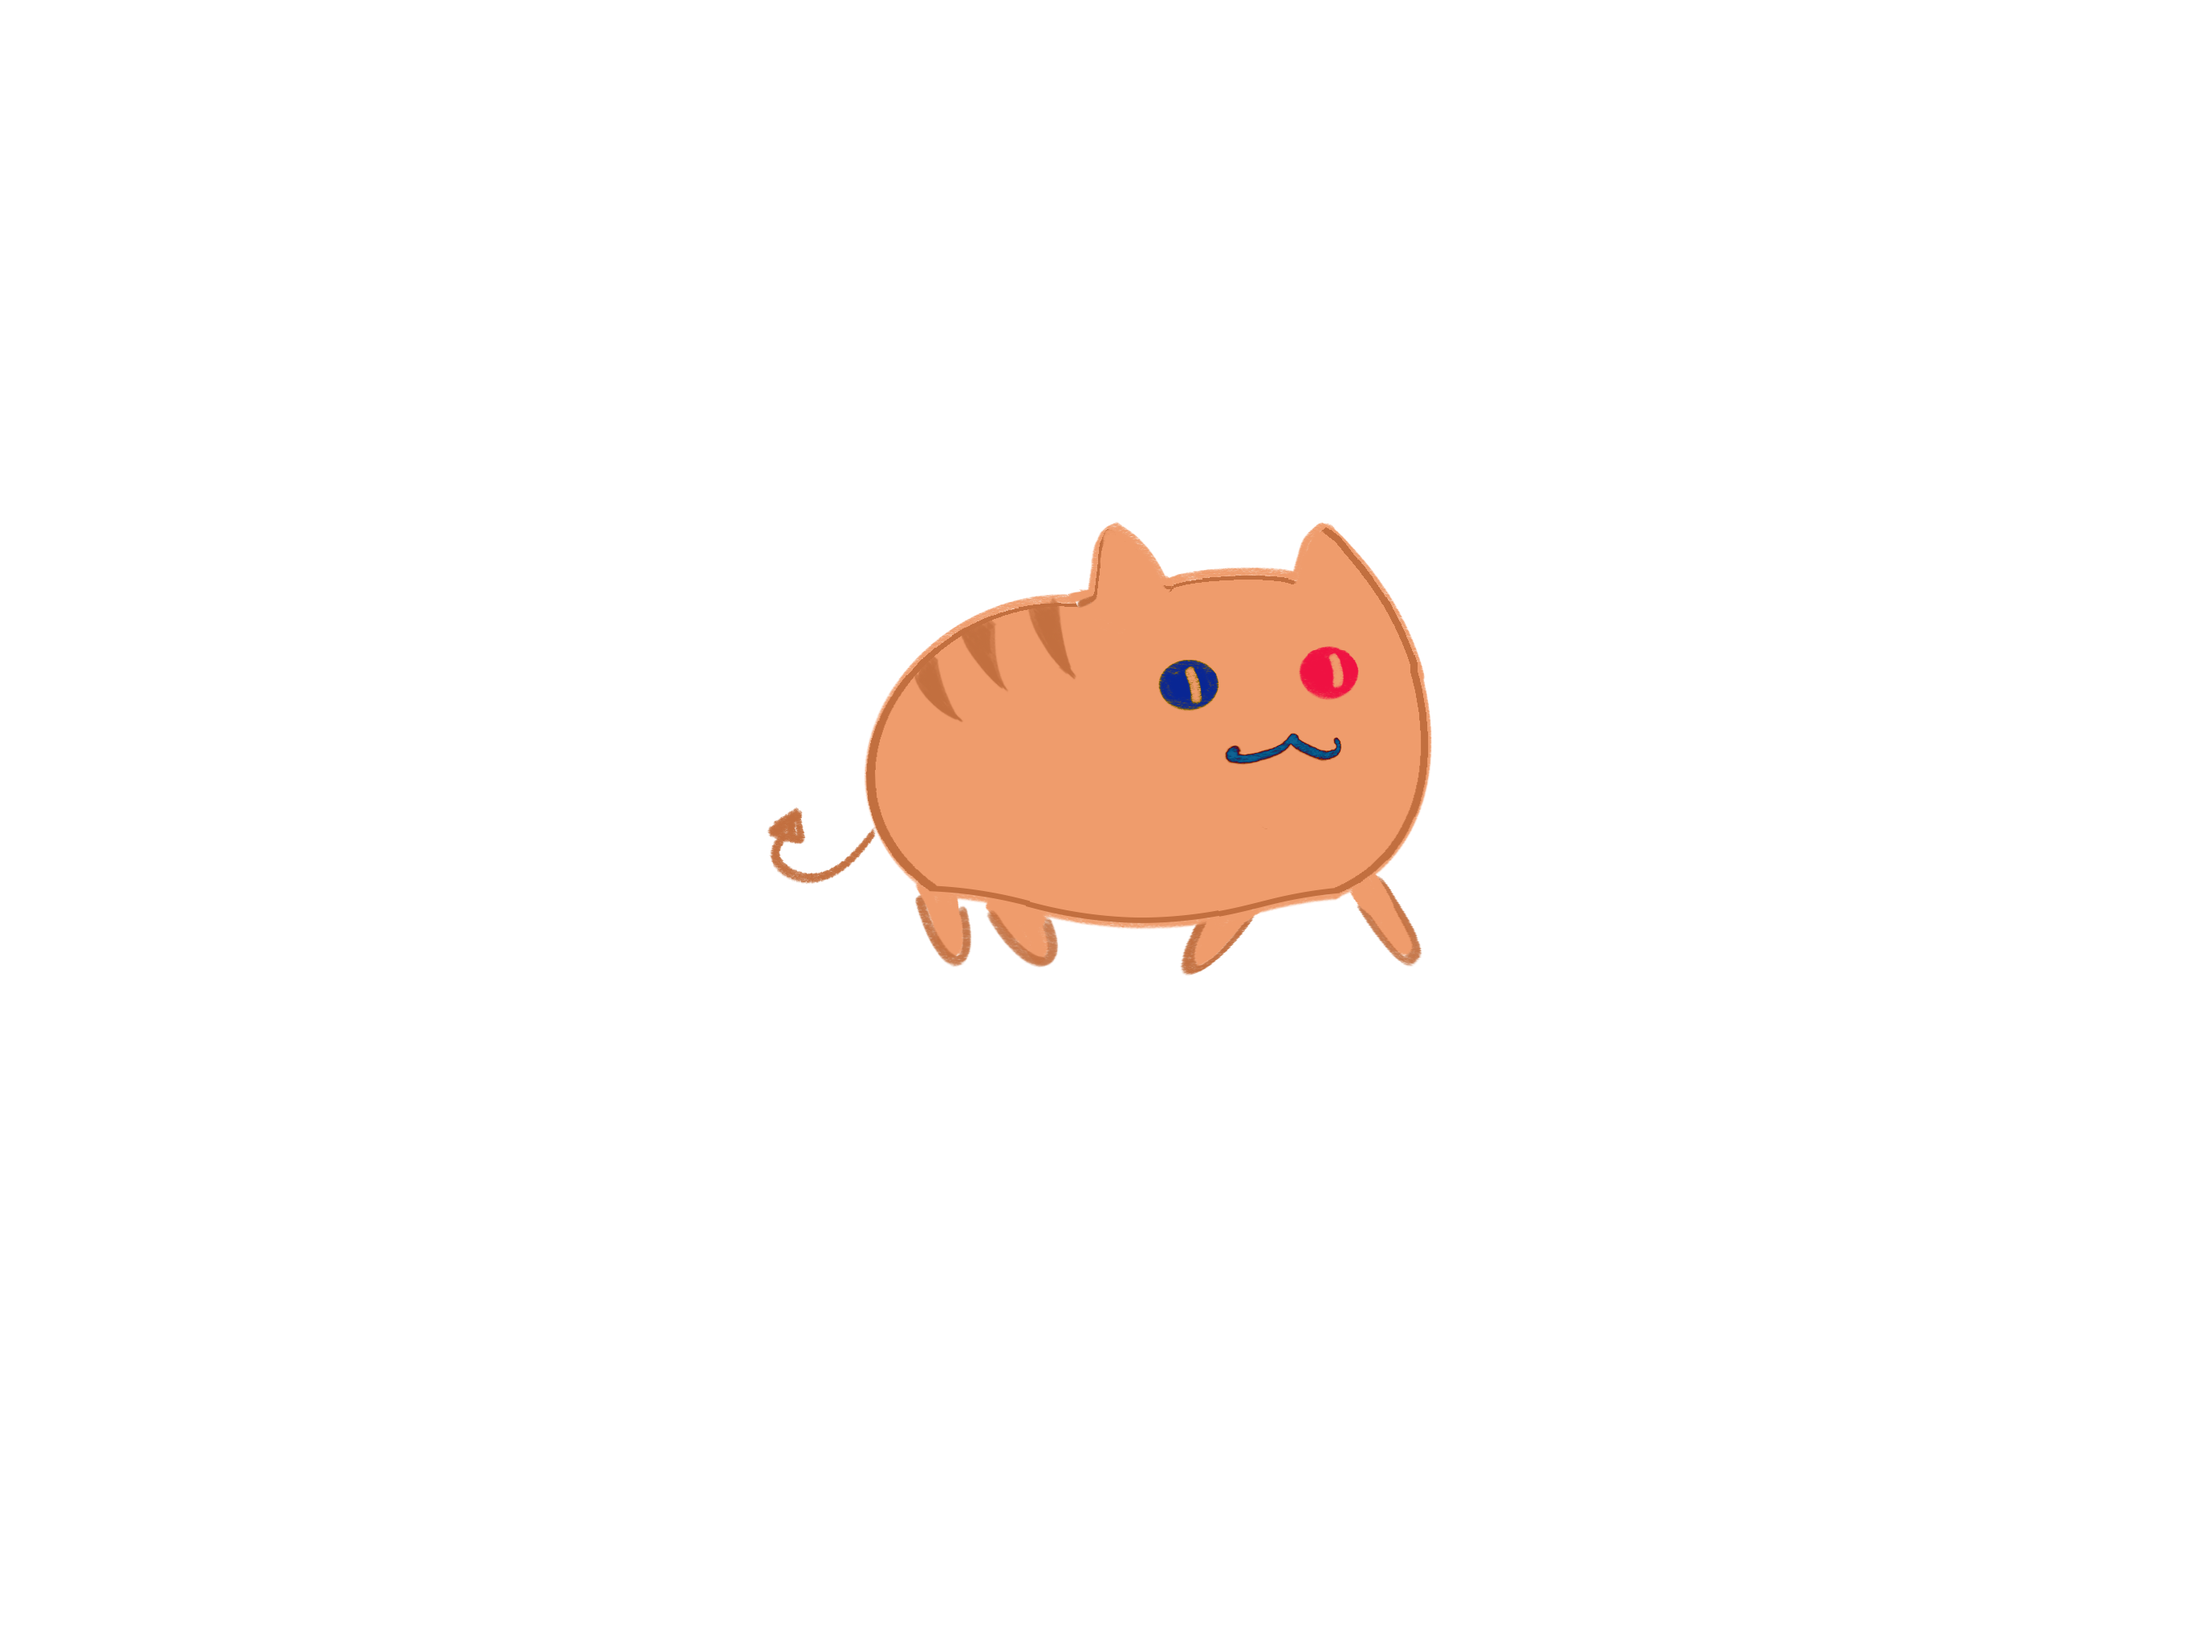
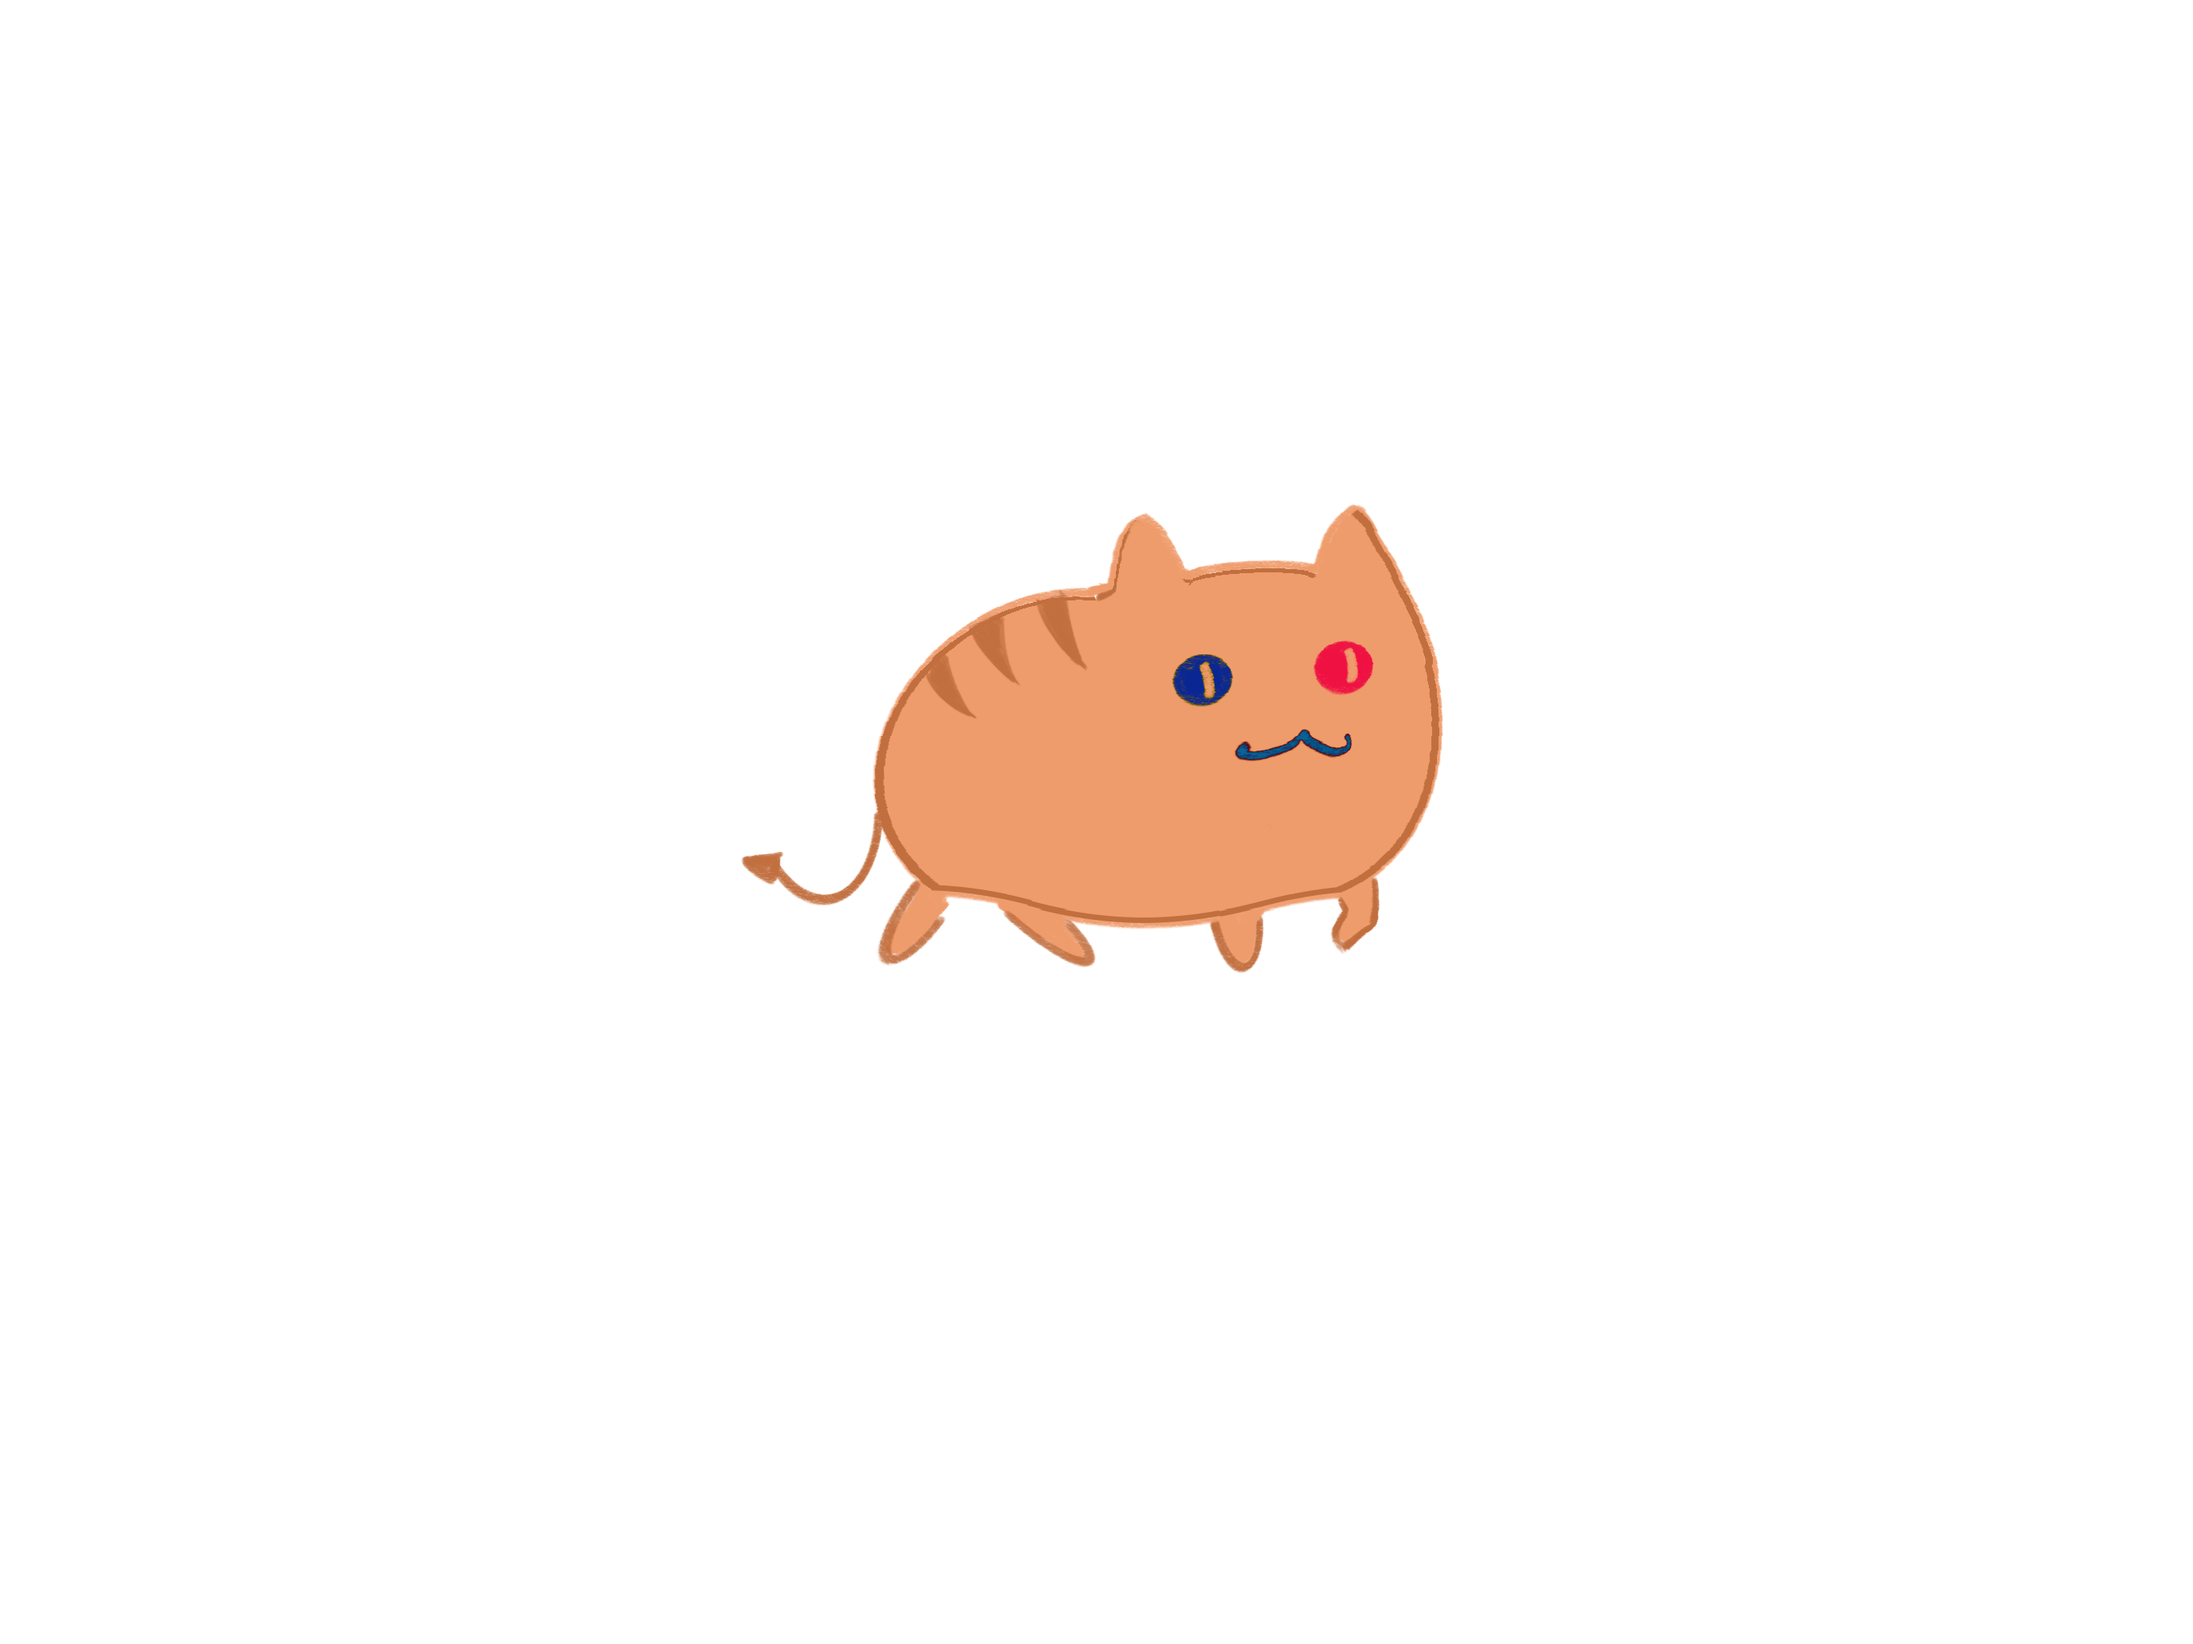
added idle animation for cat 2

Changed region(s): [[0.5289, 0.3125, 0.6845, 0.5938], [0.4045, 0.3125, 0.5911, 0.4375], [0.3422, 0.4375, 0.4978, 0.5938]]

diff --git a/CatcatcatAdvanced/js/script.js b/CatcatcatAdvanced/js/script.js
@@ -17,6 +17,7 @@
 
 //Our cat variables, for animations
 let catFrames = [];
+let gingerFrames = [];
 let frameIndex = 0;
 
 let faceEmoji = "🥺"; // default normal mode for emoji
@@ -82,6 +83,11 @@ function preload() {
         console.log("cat frame was added")
     }// all the frames of the cat
 
+    for (let i = 0; i < 4; i++) {
+        gingerFrames[i] = loadImage(`assets/images/ginger${i}.png`);
+        console.log("cat2 frame was added")
+    }// all the frames of the cat2
+
     meowSound = loadSound("assets/sounds/Meow1.mp3");
     gameMusic = loadSound("assets/music/game.mp3");
     restart = loadImage("assets/images/restartButton.png");
@@ -90,6 +96,12 @@ function preload() {
 function drawCat(x, y, w, h) {
     imageMode(CENTER); // draw from the center instead of top-left
     image(catFrames[frameIndex], x, y, w, h);
+    // console.log("there is an image",Image);
+}
+
+function drawCat2(x, y, w, h) {
+    imageMode(CENTER); // draw from the center instead of top-left
+    image(gingerFrames[frameIndex], x, y, w, h);
     // console.log("there is an image",Image);
 }
 
@@ -267,8 +279,15 @@ function gameOverUI() {
     pop();
 }
 
-function level2UI(){
-    
+function newCat2() {
+    push();
+    background("#b1a6ebff");
+    drawCat2(320, 240, 400, 400);
+    catWalk();// cat idel animation
+    pop();
+}
+function level2UI() {
+
 }
 
 //switching the scenes
@@ -279,7 +298,9 @@ function draw() {
         gameState();
     } else if (gameUI === "Over") {
         gameOverUI();
-    } else if (gameUI === "level2"){
+    } else if (gameUI === "cat2") {
+        newCat2();
+    } else if (gameUI === "level2") {
         level2UI();
     }
 }
@@ -444,16 +465,17 @@ function checkTongueFlyOverlap() {
 function mousePressed() {
     if (mouseX > 20 && mouseX < 70 && mouseY > 20 && mouseY < 70 && gameUI === "Over") {
         gameUI = "game";   // restart the game
-        resetFly();        // optional: reset cat position
+        resetFly();        //reset cat position
         frog.data.catch = 0;
         frog.data.tries = 0;
         frog.data.miss = 0;
         frog.data.mood = "normal";
 
         return; // need to do this so when I click reset button, it doesn't also trigger the arm
-    } else if (mouseX > 220 && mouseX < 420 && mouseY > 195 && mouseY < 235 && gameUI === "Over"){
-         gameUI = "level2";   // restart the game
-        resetFly();        // optional: reset cat position
+    }
+    else if (mouseX > 220 && mouseX < 420 && mouseY > 195 && mouseY < 235 && gameUI === "Over") {
+        gameUI = "cat2";   // introducing cat2
+        resetFly();        // reset cat position
         frog.data.catch = 0;
         frog.data.tries = 0;
         frog.data.miss = 0;
